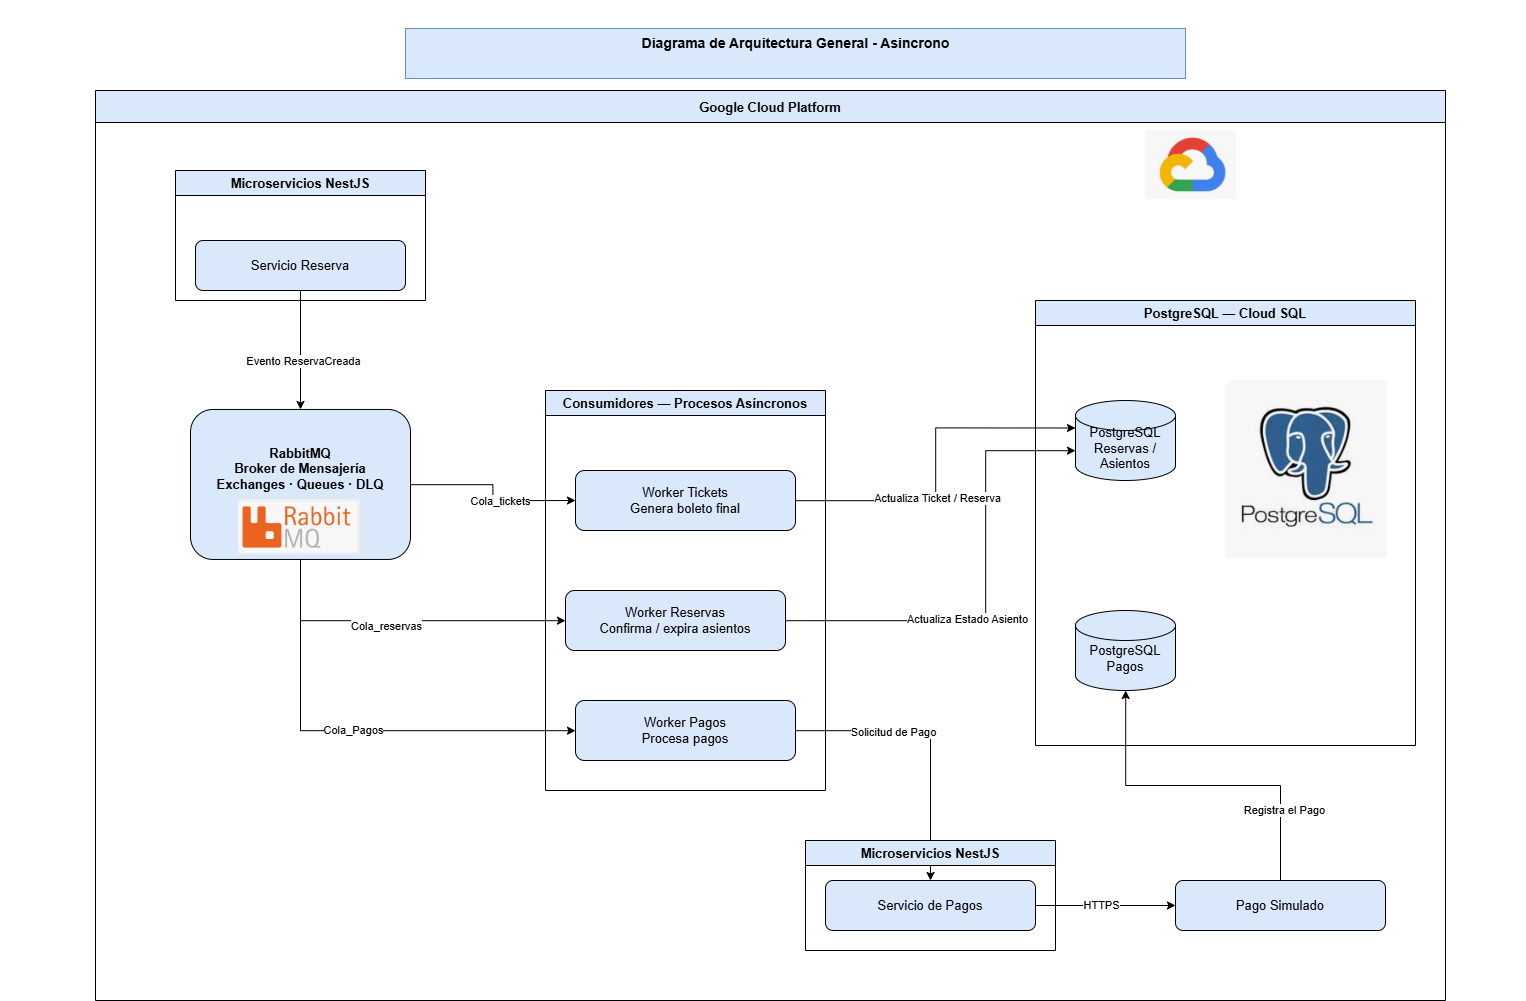
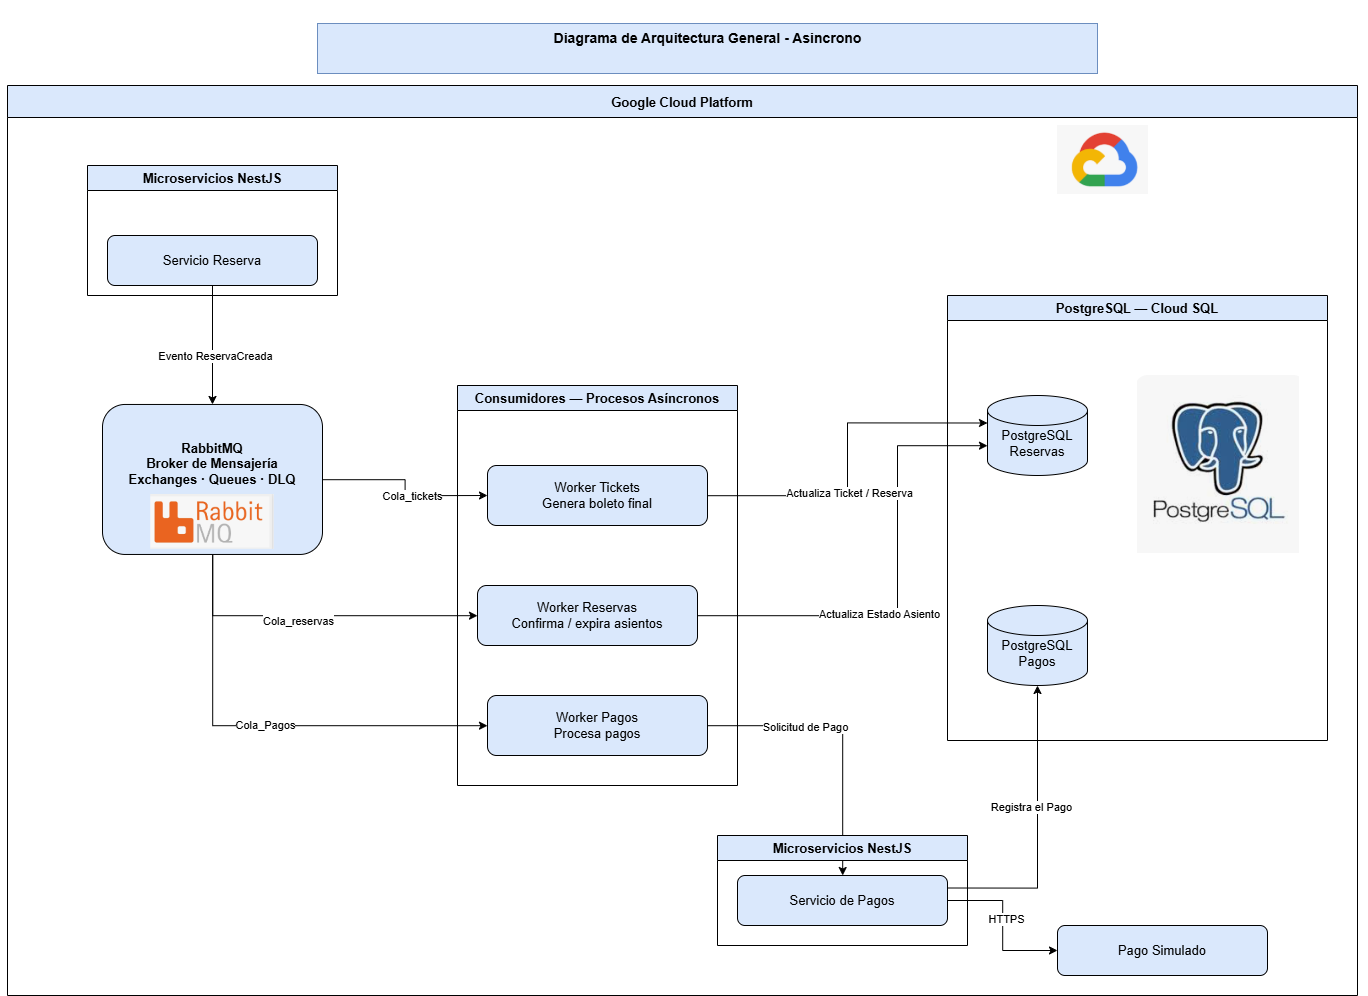
fisx: 202204578: integracion de localidad en diagramas de vistas y arquitectura

diff --git a/Practica1/Doc/Vista de Arquitectura/Vista_de_Componentes.md b/Practica1/Doc/Vista de Arquitectura/Vista_de_Componentes.md
@@ -31,6 +31,7 @@ Contiene los servicios que implementan las reglas principales del sistema:
 
 - Servicio de autenticacion
 - Servicio de funciones
+- Servicio de localidades
 - Servicio de reservaciones
 - Servicio de pagos
 
@@ -55,12 +56,13 @@ El diagrama de componentes detalla los siguientes elementos principales:
 1. Frontend Web (React + Vite)
 2. API Gateway
 3. Servicio de Autenticacion
-4. Servicio de Funciones Salas / Horarios
-5. Servicio de Reservas
-6. Servicio de Pagos
-7. RabbitMQ Broker
-8. Pasarela de Pago Simulado
-9. Bases de datos PostgreSQL por dominio
+4. Servicio de Funciones, Salas / Horarios
+5. Servicio de Localidades
+6. Servicio de Reservas
+7. Servicio de Pagos
+8. RabbitMQ Broker
+9. Pasarela de Pago Simulado
+10. Bases de datos PostgreSQL por dominio
 
 ---
 
@@ -72,9 +74,12 @@ La arquitectura combina comunicacion sincrona mediante REST/HTTPS y comunicacion
 
 - Frontend Web -> API Gateway mediante REST/HTTPS
 - API Gateway -> Servicio de Autenticacion
-- API Gateway -> Servicio de Funciones Salas / Horarios
+- API Gateway -> Servicio de Funciones, Salas / Horarios
+- API Gateway -> Servicio de Localidades
 - API Gateway -> Servicio de Reservas
 - API Gateway -> Servicio de Pagos
+- Servicio de Funciones, Salas / Horarios -> Servicio de Localidades para consultar ciudad/cine
+- Servicio de Reservas -> Servicio de Funciones, Salas / Horarios para consultar funciones disponibles
 - Servicio de Pagos -> Pasarela de Pago Simulado mediante REST API
 
 ### Comunicacion asincrona
@@ -89,7 +94,8 @@ Este flujo asincrono permite desacoplar el proceso de reserva del procesamiento 
 Cada servicio mantiene su propia base de datos PostgreSQL segun su dominio:
 
 - Servicio de Autenticacion -> Base de Datos de usuarios
-- Servicio de Funciones Salas / Horarios -> Base de Datos de funciones
+- Servicio de Funciones, Salas / Horarios -> Base de Datos de funciones
+- Servicio de Localidades -> Base de Datos de localidades
 - Servicio de Reservas -> Base de Datos de reservaciones
 - Servicio de Pagos -> Base de Datos de pagos
 
@@ -111,7 +117,7 @@ Cada servicio mantiene su propia base de datos PostgreSQL segun su dominio:
 
 ## Diagrama de Componentes
 
-![Diagrama de Componentes](imagenes/Vista_Componentes.png)
+![!\[Diagrama de Componentes\](imagenes/Vista_Componentes.png)](imagenes/Vista_Componentes.png)
 
 ---
 
@@ -119,7 +125,9 @@ Cada servicio mantiene su propia base de datos PostgreSQL segun su dominio:
 
 El frontend web actua como punto de entrada para los usuarios del sistema y canaliza las solicitudes hacia el API Gateway. Este gateway expone las APIs REST y centraliza la comunicacion con los servicios internos.
 
-El Servicio de Autenticacion administra el acceso al sistema y el manejo de tokens JWT. El Servicio de Funciones Salas / Horarios se encarga de la informacion relacionada con funciones y disponibilidad operativa. El Servicio de Reservas gestiona el registro de reservaciones y se comunica con RabbitMQ cuando una operacion requiere procesamiento asincrono. El Servicio de Pagos procesa los pagos y consume una pasarela de pago simulada por medio de una API externa.
+El Servicio de Autenticacion administra el acceso al sistema y el manejo de tokens JWT. El Servicio de Funciones, Salas / Horarios se encarga de la informacion relacionada con cartelera, salas y horarios disponibles. El Servicio de Localidades centraliza la informacion geografica del sistema, especificamente ciudades y cines. El Servicio de Reservas gestiona el registro de reservaciones y consulta las funciones disponibles antes de confirmar una operacion. El Servicio de Pagos procesa los pagos y consume una pasarela de pago simulada por medio de una API externa.
+
+Ademas, el Servicio de Funciones, Salas / Horarios consulta al Servicio de Localidades para obtener la relacion entre ciudades y cines disponible dentro de la plataforma. Esta separacion mantiene desacoplada la informacion geografica respecto de la logica de cartelera.
 
 El broker RabbitMQ sirve como mecanismo de integracion asincrona entre reservas y pagos. Este desacoplamiento evita dependencias temporales estrictas entre ambos servicios y facilita la escalabilidad del sistema.
 

diff --git a/Practica1/Doc/Vista de Arquitectura/Vista_Despliegue.md b/Practica1/Doc/Vista de Arquitectura/Vista_Despliegue.md
@@ -51,7 +51,8 @@ Agrupa los servicios principales del sistema desplegados como contenedores dentr
 - API Gateway (Express / NestJS) - Puerto 3000
 - Servicio de Autenticacion
 - Servicio de Funciones
-- Servicio de Reservas y asientos
+- Servicio de Localidades
+- Servicio de Reservas
 - Servicio de Pagos
 
 ### Comunicacion
@@ -86,6 +87,7 @@ Concentra la persistencia del sistema en bases de datos separadas por dominio fu
 
 - Usuarios
 - Funciones
+- Localidades
 - Reservas
 - Pagos
 
@@ -113,7 +115,7 @@ Agrupa las integraciones externas consumidas por la plataforma.
 
 ## Diagrama de Vista Fisica
 
-![Diagrama de Vista Fisica](imagenes/VISTADESPLIEGUE.png)
+![!\[Diagrama de Vista Fisica\](imagenes/VISTADESPLIEGUE.png)](imagenes/VISTADESPLIEGUE.png)
 
 ---
 
@@ -121,13 +123,13 @@ Agrupa las integraciones externas consumidas por la plataforma.
 
 El acceso al sistema inicia desde los actores Cliente y Admin, quienes se conectan por HTTPS al servidor frontend usando el puerto 443. En este nodo se encuentra desplegada la aplicacion Frontend Web desarrollada con React + Vite.
 
-El frontend se comunica por HTTPS con el servidor backend, donde reside el API Gateway. Este componente funciona como punto central de entrada y distribuye las solicitudes hacia los microservicios internos de autenticacion, funciones, reservas y asientos, y pagos.
+El frontend se comunica por HTTPS con el servidor backend, donde reside el API Gateway. Este componente funciona como punto central de entrada y distribuye las solicitudes hacia los microservicios internos de autenticacion, funciones, localidades, reservas y pagos.
 
 Dentro del servidor backend, los microservicios se encuentran organizados bajo un esquema SOA y desplegados en contenedores. Esta separacion permite aislar responsabilidades, facilitar el mantenimiento y favorecer la escalabilidad de la solucion.
 
-El Servicio de Reservas y asientos interactua con RabbitMQ para soportar procesos asincronos mediante AMQP en el puerto 5672. Este mecanismo desacopla operaciones internas y permite manejar mejor tareas que no requieren respuesta inmediata.
+El Servicio de Localidades centraliza la informacion geografica del sistema, particularmente ciudades y cines. El Servicio de Reservas y el Servicio de Pagos interactuan con RabbitMQ para soportar procesos asincronos mediante AMQP en el puerto 5672. Este mecanismo desacopla operaciones internas y permite manejar mejor tareas que no requieren respuesta inmediata.
 
-La persistencia se aloja en un servicio PostgreSQL, donde existen contenedores o bases de datos independientes para usuarios, funciones, reservas y pagos. El acceso se realiza mediante TCP/IP en el puerto 5432.
+La persistencia se aloja en un servicio PostgreSQL, donde existen contenedores o bases de datos independientes para usuarios, funciones, localidades, reservas y pagos. El acceso se realiza mediante TCP/IP en el puerto 5432, manteniendo aislamiento por dominio.
 
 Finalmente, el backend mantiene integraciones con servicios externos. La pasarela de pago simulada se consume mediante HTTPS por el puerto 443, mientras que el proveedor de correo se integra mediante SMTP por el puerto 587.
 

diff --git a/Practica1/Doc/Diagramas_Estructurales/Diagrama_Arquitectura_General.md b/Practica1/Doc/Diagramas_Estructurales/Diagrama_Arquitectura_General.md
@@ -27,17 +27,21 @@ Los microservicios mostrados en esta vista son:
 
 - Servicio Auth / Usuarios
 - Servicio de Funciones
-- Servicio Reservas y Asientos
-- Servicio Pagos
+- Servicio de Reservas
+- Servicio de Pagos
+- Servicio de Localidades
 
 Cada servicio se comunica mediante `REST + JWT`, lo que permite mantener autenticacion y autorizacion centralizadas. El API Gateway valida el token JWT y los servicios verifican permisos antes de procesar cada solicitud.
+
+En esta vista, el `Servicio de Localidades` centraliza la informacion de ciudades y cines disponible dentro de la plataforma, por lo que forma parte del flujo sincronico de consulta junto con funciones, reservas y pagos.
 
 La persistencia se encuentra separada por dominio en `PostgreSQL - Cloud SQL`:
 
 - PostgreSQL Auth / Usuarios
 - PostgreSQL Funciones
-- PostgreSQL Reservas / Asientos
+- PostgreSQL Reservas
 - PostgreSQL Pagos
+- PostgreSQL Localidades
 
 El acceso desde los microservicios hacia sus bases de datos se realiza mediante `SQL`, manteniendo aislamiento entre dominios y favoreciendo mantenibilidad, seguridad y escalabilidad.
 
@@ -56,7 +60,7 @@ El acceso desde los microservicios hacia sus bases de datos se realiza mediante 
 
 ### Descripcion
 
-La vista asincronica representa los procesos que no requieren una respuesta inmediata al usuario y que se ejecutan mediante mensajeria. En esta arquitectura, el `Servicio Reserva` publica eventos en `RabbitMQ`, que actua como broker de mensajeria y administra `exchanges`, `queues` y `DLQ`.
+La vista asincronica representa los procesos que no requieren una respuesta inmediata al usuario y que se ejecutan mediante mensajeria. En esta arquitectura, el `Servicio de Reservas` publica eventos en `RabbitMQ`, que actua como broker de mensajeria y administra `exchanges`, `queues` y `DLQ`.
 
 Los eventos generados por las reservas se distribuyen hacia colas especializadas:
 
@@ -77,9 +81,11 @@ Los workers interactuan con `PostgreSQL - Cloud SQL` para actualizar el estado d
 
 Adicionalmente, el `Worker Pagos` realiza una solicitud al `Servicio de Pagos`, y este consume externamente el servicio de `Pago Simulado` mediante `HTTPS`. Una vez completado el proceso, el pago queda registrado en la base de datos correspondiente.
 
+El `Servicio de Localidades` no aparece en esta vista asincronica porque no participa directamente en el procesamiento de eventos de reservas, tickets o pagos.
+
 ### Flujo principal
 
-1. El Servicio Reserva publica el evento `ReservaCreada` en RabbitMQ.
+1. El Servicio de Reservas publica el evento `ReservaCreada` en RabbitMQ.
 2. RabbitMQ distribuye mensajes hacia `cola_tickets`, `cola_reservas` y `cola_pagos`.
 3. Cada worker consume su cola y ejecuta su tarea especifica.
 4. Los workers actualizan la informacion en PostgreSQL segun el dominio afectado.
